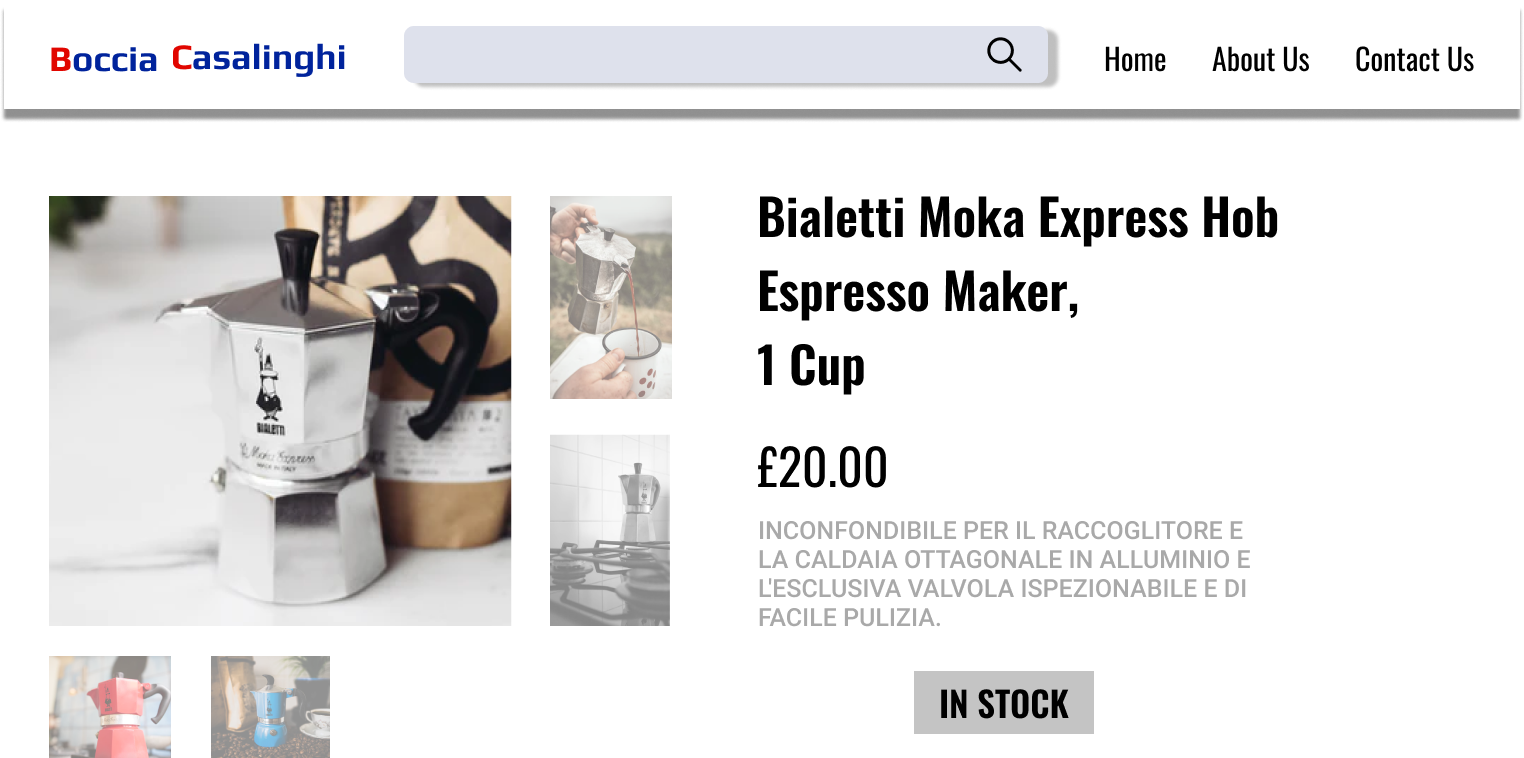
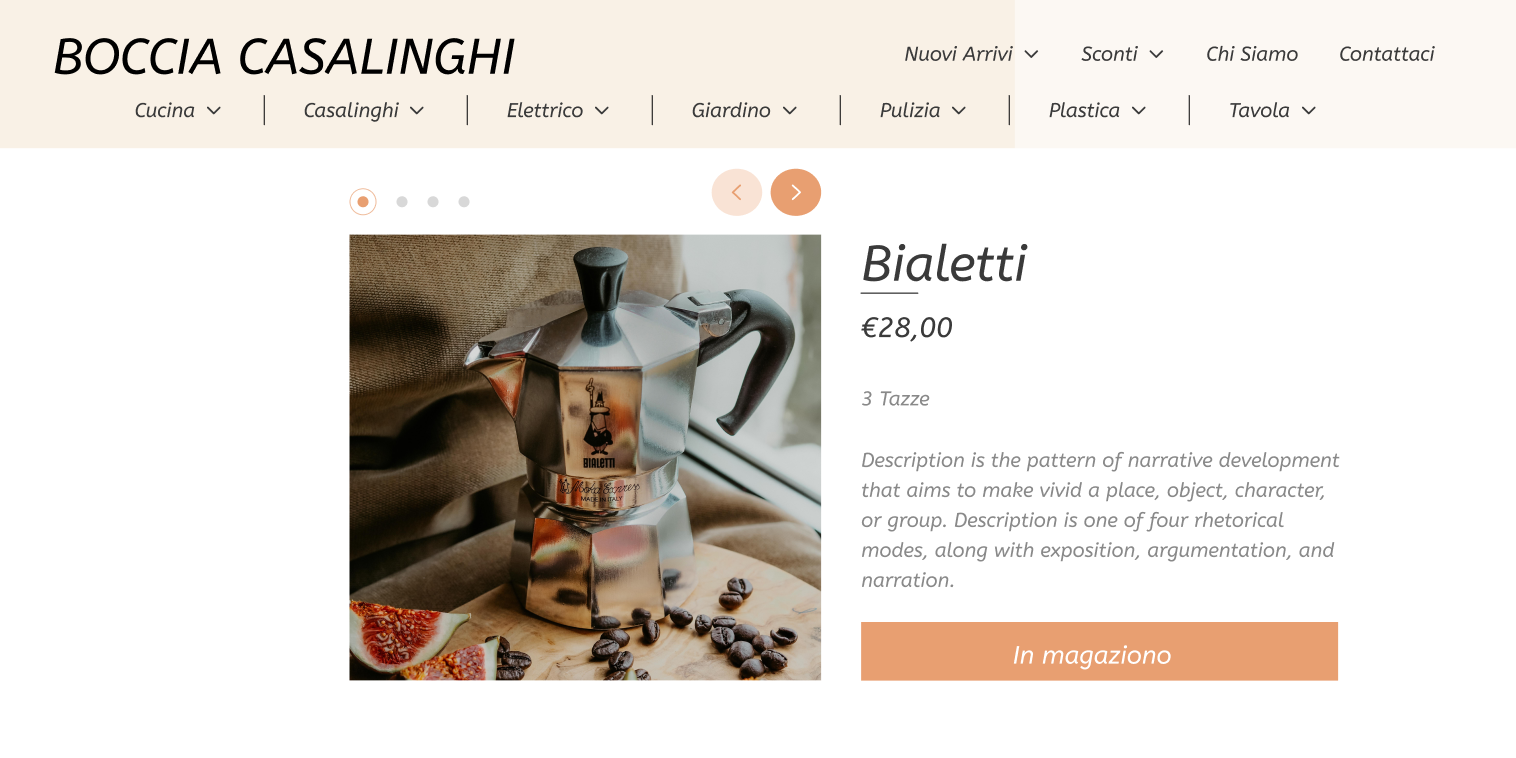
New project website update

diff --git a/work-in-progress.html b/work-in-progress.html
@@ -64,20 +64,35 @@
           data-flickity-options='{"imagesLoaded": true,"resize": true, "wrapAround": true, "friction": 0.15, "selectedAttraction": 0.01 }'
         >
           <div class="gallery-cell">
+            <img src="/images/Work in progress/Home.png" alt="WorkInProgress" />
+          </div>
+          <div class="gallery-cell">
             <img
-              src="images/Work in progress/Home Page.png"
+              src="images/Work in progress/Nostri Prodotti.png"
+              alt="WorkInProgress"
+            />
+          </div>
+          <div class="gallery-cell">
+            <img
+              src="images/Work in progress/Sconti.png"
+              alt="WorkInProgress"
+            />
+          </div>
+          <div class="gallery-cell">
+            <img
+              src="images/Work in progress/Chi siamo.png"
+              alt="WorkInProgress"
+            />
+          </div>
+          <div class="gallery-cell">
+            <img
+              src="images/Work in progress/Footer.png"
               alt="WorkInProgress"
             />
           </div>
           <div class="gallery-cell">
             <img
               src="images/Work in progress/Single Product Page.png"
-              alt="WorkInProgress"
-            />
-          </div>
-          <div class="gallery-cell">
-            <img
-              src="images/Work in progress/Group 3.png"
               alt="WorkInProgress"
             />
           </div>

diff --git a/JS/main.js b/JS/main.js
@@ -51,7 +51,6 @@ document.addEventListener("click", (clickEvent) => {
     removeClassToBlur(bodyFocus);
     removeClassToBlur(footerFocus);
     menuOpen = false;
-    console.log(clickEvent.target);
   }
 });
 
@@ -73,3 +72,8 @@ function scrollEventResponsive() {
   }
 }
 window.addEventListener("scroll", scrollEventResponsive);
+
+
+
+
+
